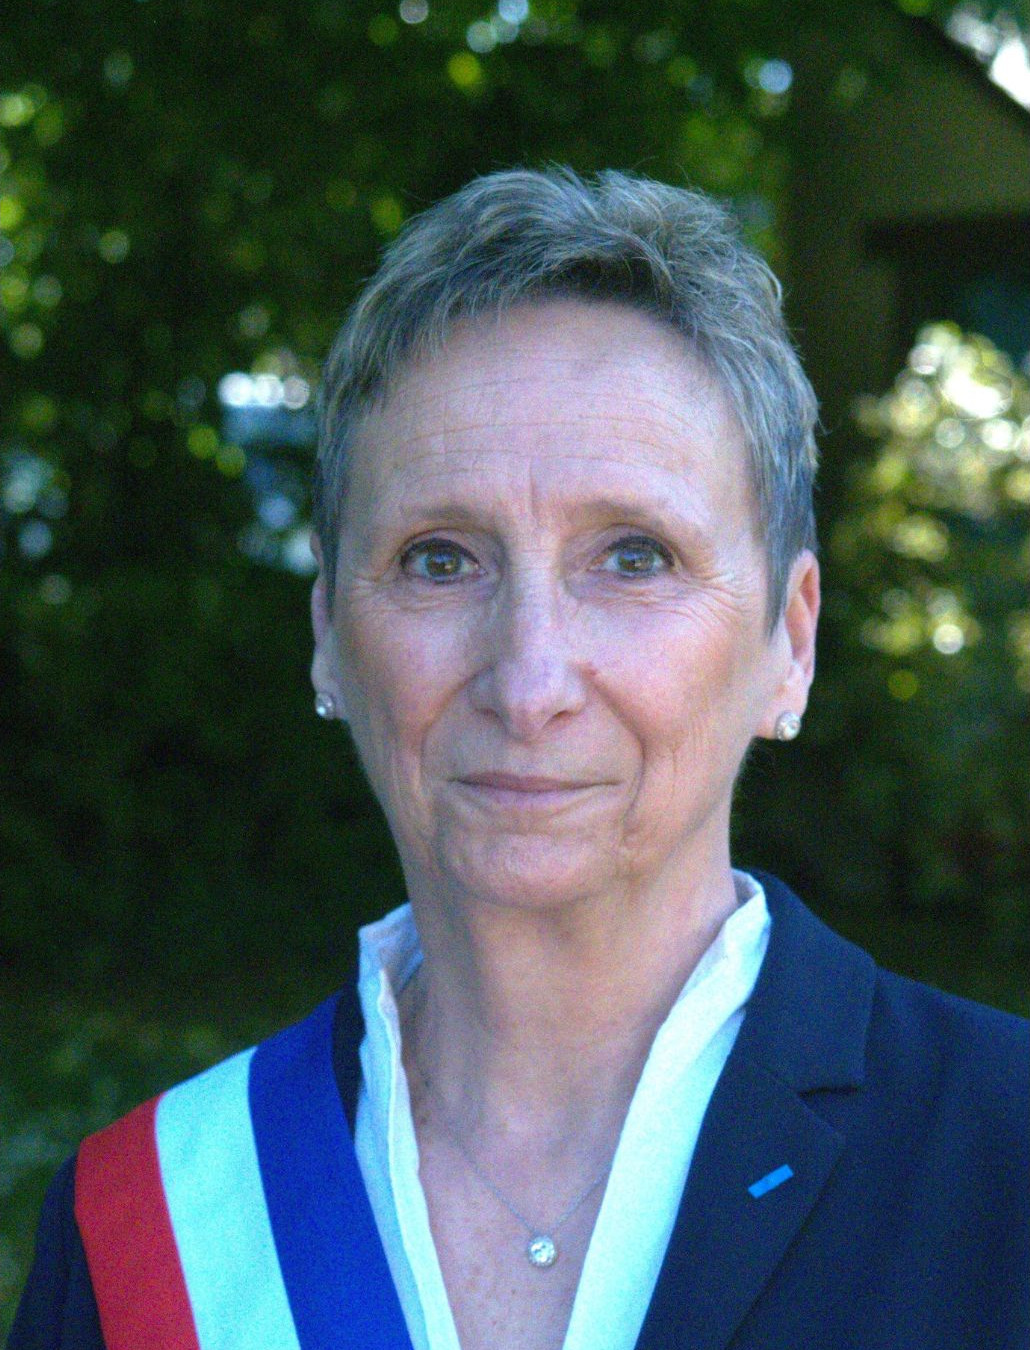
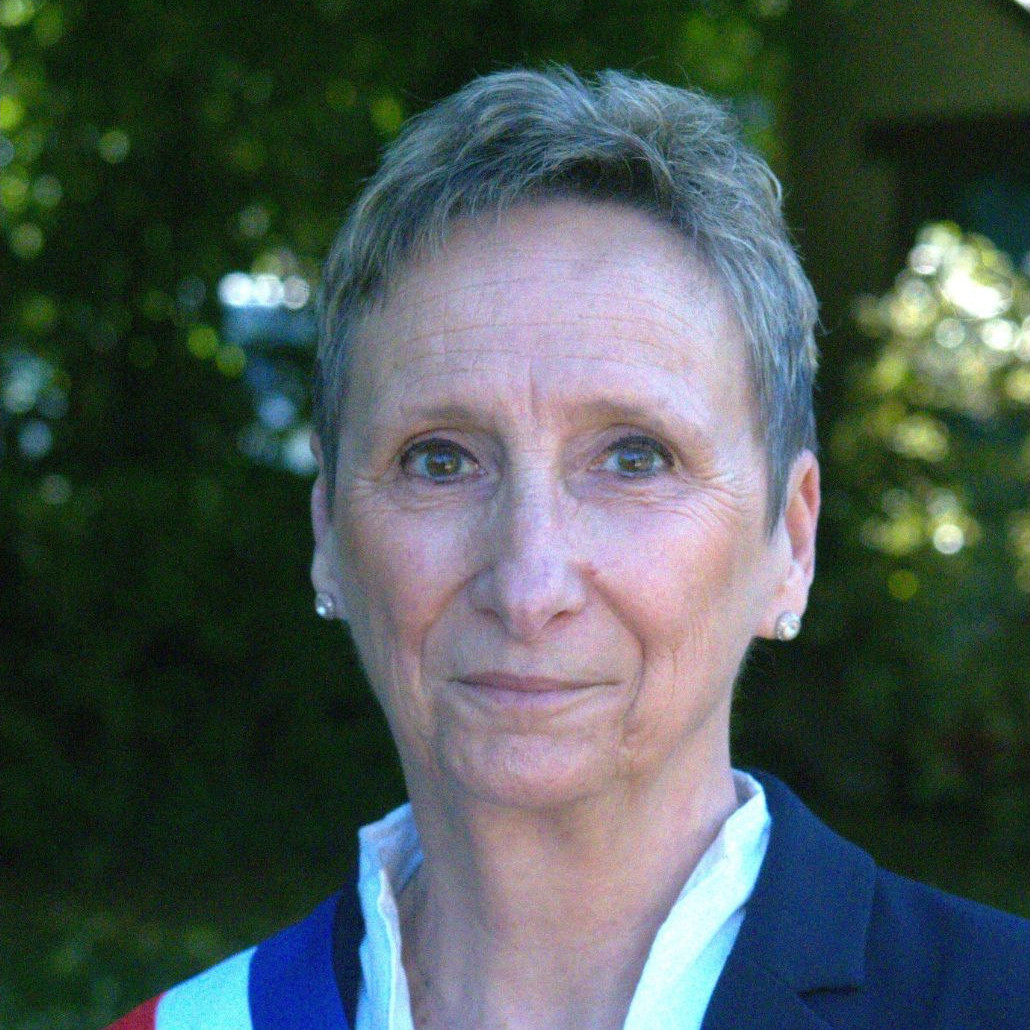
Component Graph : add helpers to display (extented)Data

diff --git a/jBakeSite/assets/css/znl-style-ext.css b/jBakeSite/assets/css/znl-style-ext.css
@@ -272,6 +272,12 @@
 	border-radius: 99999px;
 	padding: 0.2em;
 }
+
+.personne .imageBeforeTitleSubTemplate .blockTitle .block_title_image_wraper img{
+	border-radius: 100%;
+	width: 150px;
+	height: auto;
+}
     
 #sectionFooter {
 	background-color:${webleger.site.style.secondary.background.color};

diff --git a/jBakeSite/content/structure/commissions/comissions.md b/jBakeSite/content/structure/commissions/comissions.md
@@ -4,7 +4,7 @@ type=org_openCiLife_post
 category=vieMunicipaleAccesRapide
 status=published
 contentImage=<svg xmlns="http://www.w3.org/2000/svg" width="24" height="24" viewBox="0 0 24 24" fill="none" stroke="currentColor" stroke-width="2" stroke-linecap="round" stroke-linejoin="round"  aria-hidden="true"><path d="M12.83 2.18a2 2 0 0 0-1.66 0L2.6 6.08a1 1 0 0 0 0 1.83l8.58 3.91a2 2 0 0 0 1.66 0l8.58-3.9a1 1 0 0 0 0-1.83z"></path><path d="M2 12a1 1 0 0 0 .58.91l8.6 3.91a2 2 0 0 0 1.65 0l8.58-3.9A1 1 0 0 0 22 12"></path><path d="M2 17a1 1 0 0 0 .58.91l8.6 3.91a2 2 0 0 0 1.65 0l8.58-3.9A1 1 0 0 0 22 17"></path></svg>
-graph={"query":{"type":"commission", "value":"*", "in":{"category":"personne"}}, "subTemplate":"sslf.comissionsParMembresGraphSubTemplate"}
+graph={"query":{"type":"commission", "value":"*", "in":{"category":"personne"}, "groupBy":"related.code"}, "subTemplate":"sslf.comissionsParMembresGraphSubTemplate"}
 order=960
 ~~~~~~
 Les comissions servent à .....

diff --git a/jBakeSite/content/personne/personnes.md b/jBakeSite/content/personne/personnes.md
@@ -1,0 +1,10 @@
+title=Personnes
+date=2026-07-02
+type=org_openCiLife_post
+category=vieMunicipaleAccesRapide
+status=published
+contentImage=<svg xmlns="http://www.w3.org/2000/svg" width="24" height="24" viewBox="0 0 24 24" fill="none" stroke="currentColor" stroke-width="2" stroke-linecap="round" stroke-linejoin="round" aria-hidden="true"><path d="M18 21a8 8 0 0 0-16 0"></path><circle cx="10" cy="8" r="5"></circle><path d="M22 20c0-3.37-2-6.5-4-8a5 5 0 0 0-.45-8.3"></path></svg>
+graph={"query":{"type":"structure", "value":"commune_SSLF", "in":{"category":"personne"}}, "subTemplate":"sslf.personneParStructureGraphSubTemplate"}
+order=850
+~~~~~~
+Retouvez tous ceux qui participent à la vie communal !

diff --git a/jBakeSite/content/personne/Dominique_DELPEUCH.md b/jBakeSite/content/personne/Dominique_DELPEUCH.md
@@ -2,6 +2,8 @@ title=Dominique DELPEUCH
 date=2026-07-01
 type=org_openCiLife_post
 category=personne
+subTemplate=sslf.personneSubTemplate
+specificClass=personne
 code=Dominique DELPEUCH
 status=published
 exerpt=Dominique bla bla bla

diff --git a/jBakeSite/content/personne/Monique_PINARDON.md b/jBakeSite/content/personne/Monique_PINARDON.md
@@ -3,6 +3,7 @@ date=2026-07-03
 type=org_openCiLife_post
 category=personne
 subTemplate=sslf.personneSubTemplate
+specificClass=personne
 code=Monique PINARDON
 status=published
 exerpt=Monique bla bla bla
